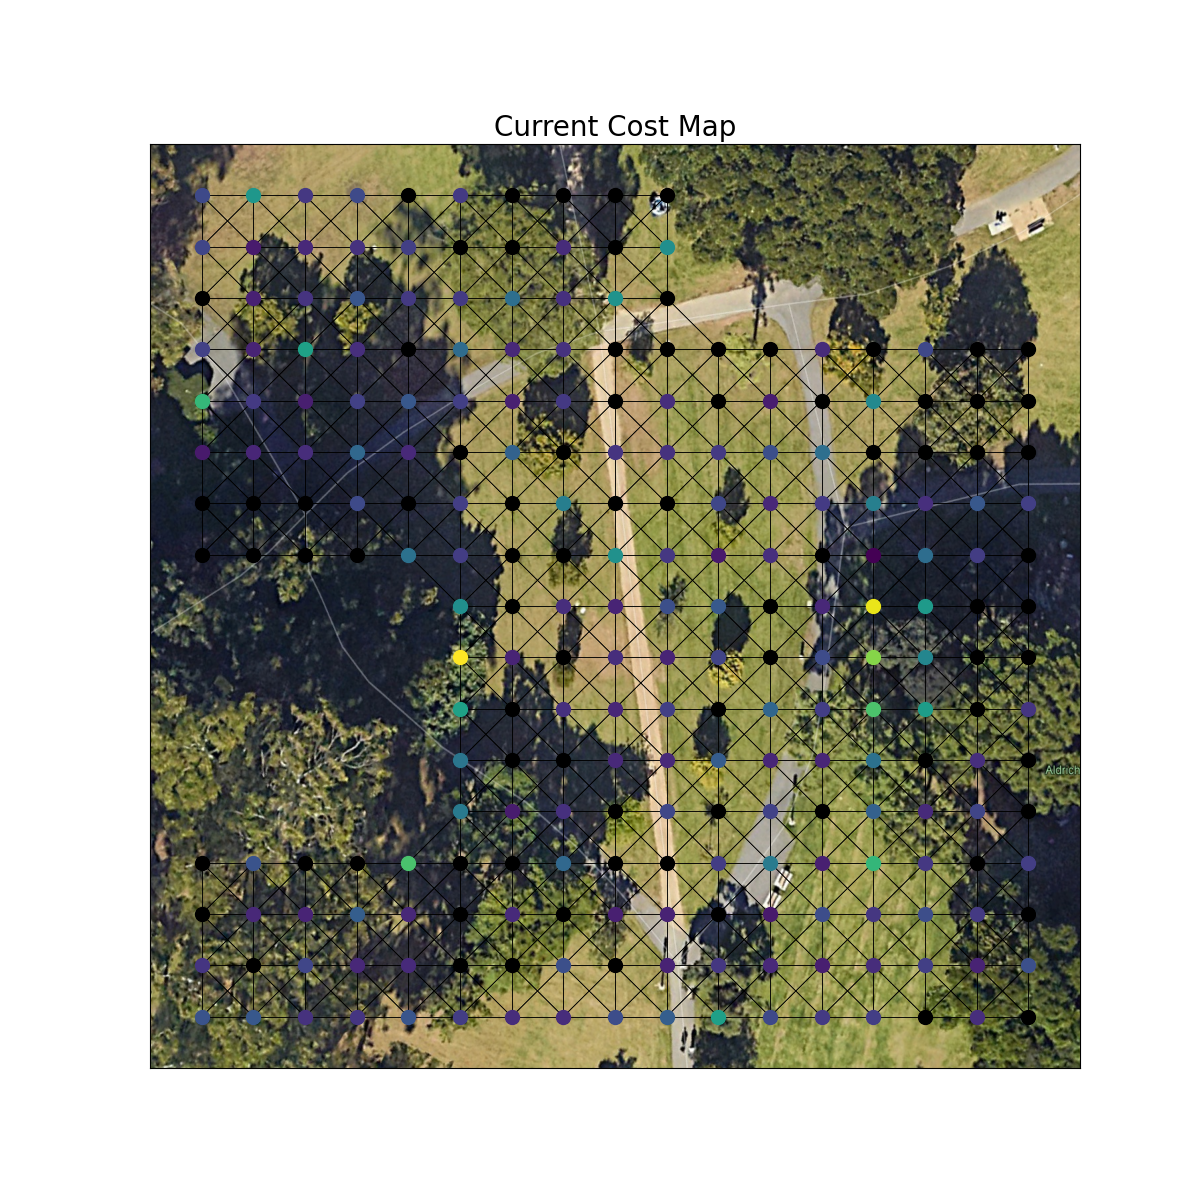
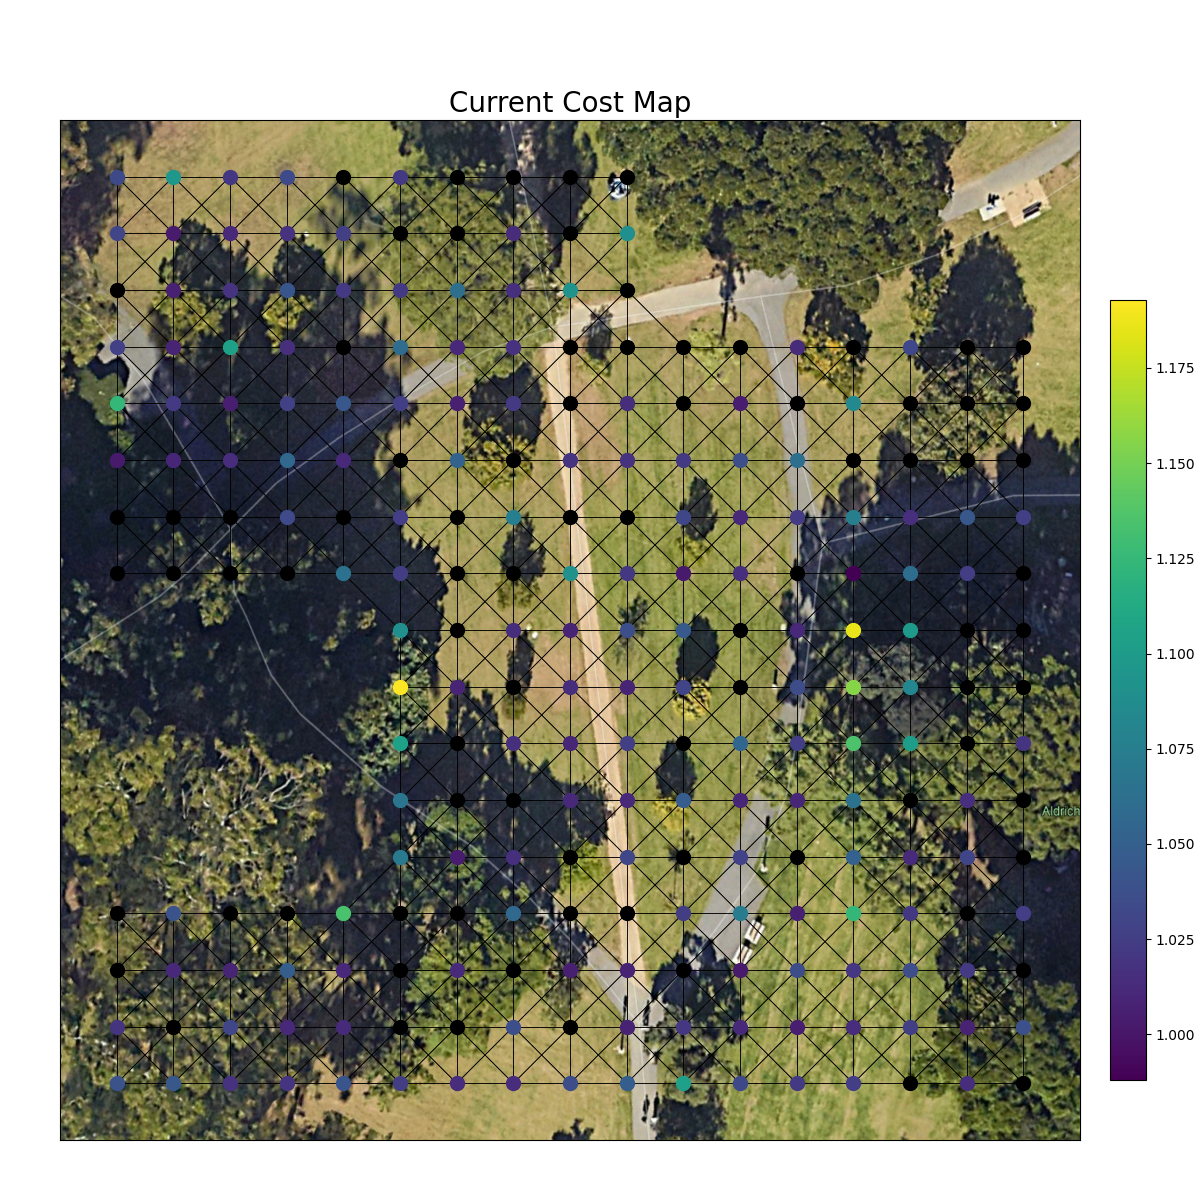
Update costmaps

diff --git a/placecell.py b/placecell.py
@@ -78,7 +78,9 @@ class PlaceNetwork:
         return avg / len(cell.wgts.keys())        
 
     def plotCells(self, costmap=0, image=None, title="Cost Map"):
-        fig, ax = plt.subplots(figsize=(12, 12))
+        #fig, ax = plt.subplots(figsize=(12, 12))
+        fig = plt.figure(figsize=(12, 12))
+        ax = fig.add_axes([0.05, 0.05, 0.85, 0.85])
         ax.tick_params(left=False, right=False, labelleft=False, labelbottom=False, bottom=False)
 
         #Get colors
@@ -91,11 +93,15 @@ class PlaceNetwork:
         sm = ScalarMappable(cmap=cmap, norm=norm)
         color_vectors = sm.to_rgba(colors, alpha=None)
 
+        ax_colorbar = fig.add_axes([0.925, 0.1, 0.03, 0.65])
+        cbar = plt.colorbar(sm, cax=ax_colorbar)
+
+
         for i, cell in enumerate(self.cells):
             if colors[i] == 1.0: 
-                plt.plot(self.points[cell.ID][1], self.points[cell.ID][0], marker='o', ms=10, color="black", zorder=2)
+                ax.plot(self.points[cell.ID][1], self.points[cell.ID][0], marker='o', ms=10, color="black", zorder=2)
             else:
-                plt.plot(self.points[cell.ID][1], self.points[cell.ID][0], marker='o', ms=10, color=color_vectors[i], zorder=2)
+                ax.plot(self.points[cell.ID][1], self.points[cell.ID][0], marker='o', ms=10, color=color_vectors[i], zorder=2)
             #Annotate cell with ID
             #plt.annotate(cell.ID, (cell.origin[1], cell.origin[0]), color='blue', zorder=3, fontsize=8)
             #plt.annotate((self.points[cell.ID][0], self.points[cell.ID][1]), (self.points[cell.ID][1], self.points[cell.ID][0] + 0.15), color='blue', zorder=3, fontsize=8)
@@ -106,7 +112,7 @@ class PlaceNetwork:
                 #plt.plot([cell.origin[1], conncell[1]], [cell.origin[0], conncell[0]], 'ko-', zorder=0)
 
                 conncell = (self.points[connected_cell.ID][0], self.points[connected_cell.ID][1])
-                plt.plot([self.points[cell.ID][1], conncell[1]], [self.points[cell.ID][0], conncell[0]],'ko-', zorder=1, linewidth=0.5)
+                ax.plot([self.points[cell.ID][1], conncell[1]], [self.points[cell.ID][0], conncell[0]],'ko-', zorder=1, linewidth=0.5)
 
         ax.set_title(title, fontsize=20)
 
@@ -121,6 +127,7 @@ class PlaceNetwork:
             
             # Set the extent to fit the square plot while maintaining aspect ratio
             ax.imshow(square_image, extent=[-1, 17, -1, 17], aspect='auto', zorder=0)
+
 
     def printLatLon(self):
         print("latitude, longitude")
@@ -391,9 +398,26 @@ if __name__ == "__main__":
     network = PlaceNetwork()
     data = loadNetwork("chkpt")
     network.loadFromFile(data)
+
+    network.plotCells(costmap=0, image="images/map/mapraw.jpg", title="Current Cost Map")
+    plt.savefig("images/current_cost_map.png")
+    plt.show()
+    plt.close()
+
+    network.plotCells(costmap=1, image="images/map/mapraw.jpg", title="Obstacle Cost Map")
+    plt.savefig("images/obstacle_cost_map.png")
+    plt.show()
+    plt.close()
+
+    network.plotCells(costmap=2, image="images/map/mapraw.jpg", title="GPS Cost Map")
+    plt.savefig("images/gps_cost_map.png")
+    plt.show()
+    plt.close()
+
     network.plotCells(costmap=3, image="images/map/mapraw.jpg", title="WIFI Cost Map")
     plt.savefig("images/wifi_cost_map.png")
     plt.show()
+    plt.close()
     
 
     #network.printLatLon()
